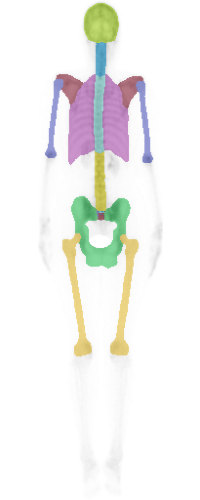
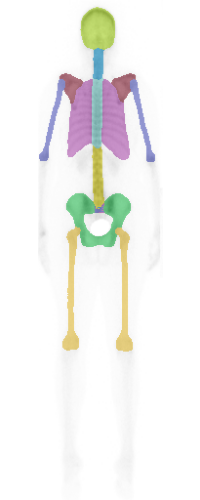
cropped done, with name

diff --git a/module/my_engine_modified_v2.py b/module/my_engine_modified_v2.py
@@ -3,10 +3,10 @@ from PIL import Image
 from torchvision import transforms
 
 import matplotlib.pyplot as plt
-import torch, os, timeit
+import torch
 import numpy as np
 
-def render_data(img_front, img_back):
+def render_data(img_front, img_back, render_type):
 
     kupu = BtrflyNet()
     kupu.load_state_dict( torch.load('./model/model-btr-paper.pt', map_location=torch.device('cpu')) )
@@ -40,8 +40,6 @@ def render_data(img_front, img_back):
     # out_size = (1, 13, 512, 128)
     dsc_size = (1, 1, 13, 512, 128)
 
-    # start = timeit.default_timer()
-
     for i in range(n_data_valid):
             
         x, y = X_valid[i], y_valid[i]
@@ -59,43 +57,42 @@ def render_data(img_front, img_back):
         if i == 0: y_predv = tmp + 0
         else: y_predv = torch.cat([y_predv, tmp], axis=0)
 
-    # ini warna
-    cp = {
-        0 : [255, 255, 255],
-        1 : [0, 0, 0],
-        2 : [0,0,17],
-        3 : [0,0,34],
-        4 : [0,0,51],
-        5 : [0,0,68],
-        6 : [0,0,85],
-        7 : [0,0,102],
-        8 : [0,0,119],
-        9 : [0,0,136],
-        10 : [0,0,153],
-        11 : [0,0,170],
-        12 : [0,0,187],
-        # 13 : [204,204,204],
-        # 14 : [221,221,221],
-        # 15 : [238,238,238],
-    }
-    # cp = {
-    #     0 : [255, 255, 255],
-    #     1 : [0, 0, 0],
-    #     2 : [17,17,17],
-    #     3 : [34,34,34],
-    #     4 : [51,51,51],
-    #     5 : [68,68,68],
-    #     6 : [85,85,85],
-    #     7 : [102,102,102],
-    #     8 : [119,119,119],
-    #     9 : [136,136,136],
-    #     10 : [153,153,153],
-    #     11 : [170,170,170],
-    #     12 : [187,187,187],
-    #     # 13 : [204,204,204],
-    #     # 14 : [221,221,221],
-    #     # 15 : [238,238,238],
-    # }
+    # ini warna (r,g,b)
+    if render_type == "normal":
+        cp = {
+            0 : [1.0       , 1.0       , 1.0       ],
+            1 : [0.6901961 , 0.9019608 , 0.05098039],
+            2 : [0.        , 0.5921569 , 0.85882354],
+            3 : [0.49411765, 0.9019608 , 0.8862745 ],
+            4 : [0.6509804 , 0.21568628, 0.654902  ],
+            5 : [0.9019608 , 0.6156863 , 0.7058824 ],
+            6 : [0.654902  , 0.43137255, 0.3019608 ],
+            7 : [0.47843137, 0.        , 0.09411765],
+            8 : [0.22352941, 0.25490198, 0.72156864],
+            9 : [0.9019608 , 0.85490197, 0.        ],
+            10 : [0.9019608 , 0.44705883, 0.13725491],
+            11 : [0.05098039, 0.7372549 , 0.24313726],
+            12 : [0.9019608 , 0.7137255 , 0.08627451]
+        }
+    else:
+        cp = {
+            0 : [255, 255, 255],
+            1 : [0, 0, 0],
+            2 : [0,0,17],
+            3 : [0,0,34],
+            4 : [0,0,51],
+            5 : [0,0,68],
+            6 : [0,0,85],
+            7 : [0,0,102],
+            8 : [0,0,119],
+            9 : [0,0,136],
+            10 : [0,0,153],
+            11 : [0,0,170],
+            12 : [0,0,187],
+            # 13 : [204,204,204],
+            # 14 : [221,221,221],
+            # 15 : [238,238,238],
+        }
 
     # pewarnaan disini
     def map_clr(mask):
@@ -121,17 +118,64 @@ def render_data(img_front, img_back):
     ax = plt.Axes(fig, [0., 0., 1., 1.])
     ax.set_axis_off()
     fig.add_axes(ax)
-    
-    # depan
-    # plt.subplot(2, n*2, (2*i)+1)
-    # ax.imshow(X_valid[vl_idx[i]][0].permute(1, 2, 0))
-    ax.imshow(map_clr(y_predv[vl_idx[i]][0].argmax(axis=0).numpy()), alpha=1)
 
-    plt.savefig('./static/crop_img/coba_f.png')
+    if render_type == "normal":
+        # depan
+        # plt.subplot(2, n*2, (2*i)+1)
+        ax.imshow(X_valid[vl_idx[i]][0].permute(1, 2, 0))
+        ax.imshow(map_clr(y_predv[vl_idx[i]][0].argmax(axis=0).numpy()), alpha=0.5)
+        plt.savefig('./static/img_front_result.png')
 
-    # belakang
-    # plt.subplot(2, n*2, (2*i)+2)
-    ax.imshow(X_valid[vl_idx[i]][1].permute(1, 2, 0))
-    ax.imshow(map_clr(y_predv[vl_idx[i]][1].argmax(axis=0).numpy()), alpha=1)
+        # belakang
+        # plt.subplot(2, n*2, (2*i)+2)
+        ax.imshow(X_valid[vl_idx[i]][1].permute(1, 2, 0))
+        ax.imshow(map_clr(y_predv[vl_idx[i]][1].argmax(axis=0).numpy()), alpha=0.5)
+        plt.savefig('./static/img_back_result.png')
+    else:
+        # depan
+        # plt.subplot(2, n*2, (2*i)+1)
+        ax.imshow(map_clr(y_predv[vl_idx[i]][0].argmax(axis=0).numpy()), alpha=1)
+        plt.savefig('./static/crop_img/crop_f.png')
 
-    plt.savefig('./static/crop_img/coba_b.png')
+        # belakang
+        # plt.subplot(2, n*2, (2*i)+2)
+        ax.imshow(map_clr(y_predv[vl_idx[i]][1].argmax(axis=0).numpy()), alpha=1)
+        plt.savefig('./static/crop_img/crop_b.png')
+
+
+def crop(img_direction):
+
+    if img_direction == "front":
+        img_path = "./static/crop_img/crop_f.png"
+        save_path = "./static/crop_img/cropped_f/"
+    else:
+        img_path = "./static/crop_img/crop_b.png"
+        save_path = "./static/crop_img/cropped_b/"
+
+    img = Image.open(img_path)
+    img = img.convert("RGBA")
+
+    d = img.getdata()
+
+    bone_name = ["Skull", "CervicalVert", "ThoracicVert", "Ribs", "Strenum", "Clavicle", "Scapula", "Humerus", "LumbarVert", "Sacrum", "Pelvis", "Femur"]
+    color = [0, 17, 34, 51, 68, 85, 102, 119, 136, 153, 170, 187]
+
+    index_bone_name = 0
+
+    for c in color:
+        new_image = []
+        img = Image.open(img_path)
+        img = img.convert("RGBA")
+        for item in d:
+            if item[2] in list(range(c,c+1)):
+                new_image.append((173, 0, 75))
+            else:
+                new_image.append((255,255,255))
+
+        # update image data
+        img.putdata(new_image)
+
+        # save new image
+        file_format = ".png"
+        img.save( save_path + bone_name[index_bone_name] + file_format)
+        index_bone_name += 1

diff --git a/app.py b/app.py
@@ -28,7 +28,10 @@ def upload_img():
   img_back_filename = 'img_back' + '.' + img_back.filename.split('.')[1]
   img_back.save(os.path.join(app.config['UPLOAD_FOLDER'], img_back_filename))
 
-  engine.render_data(img_front_filename, img_back_filename)
+  engine.render_data(img_front_filename, img_back_filename, "normal")
+  engine.render_data(img_front_filename, img_back_filename, "cropped")
+  engine.crop("front")
+  engine.crop("back")
   return render_template('result.html')
 
 @app.route('/edit_front')
@@ -89,10 +92,6 @@ def decode_result():
     img.save("static/final_back.png")
 
     return render_template("final_result.html")
-
-@app.route('/coba')
-def coba():
-    return render_template('old/via_demo.html')
 
 if __name__ == '__main__':
   app.run(debug=True)
